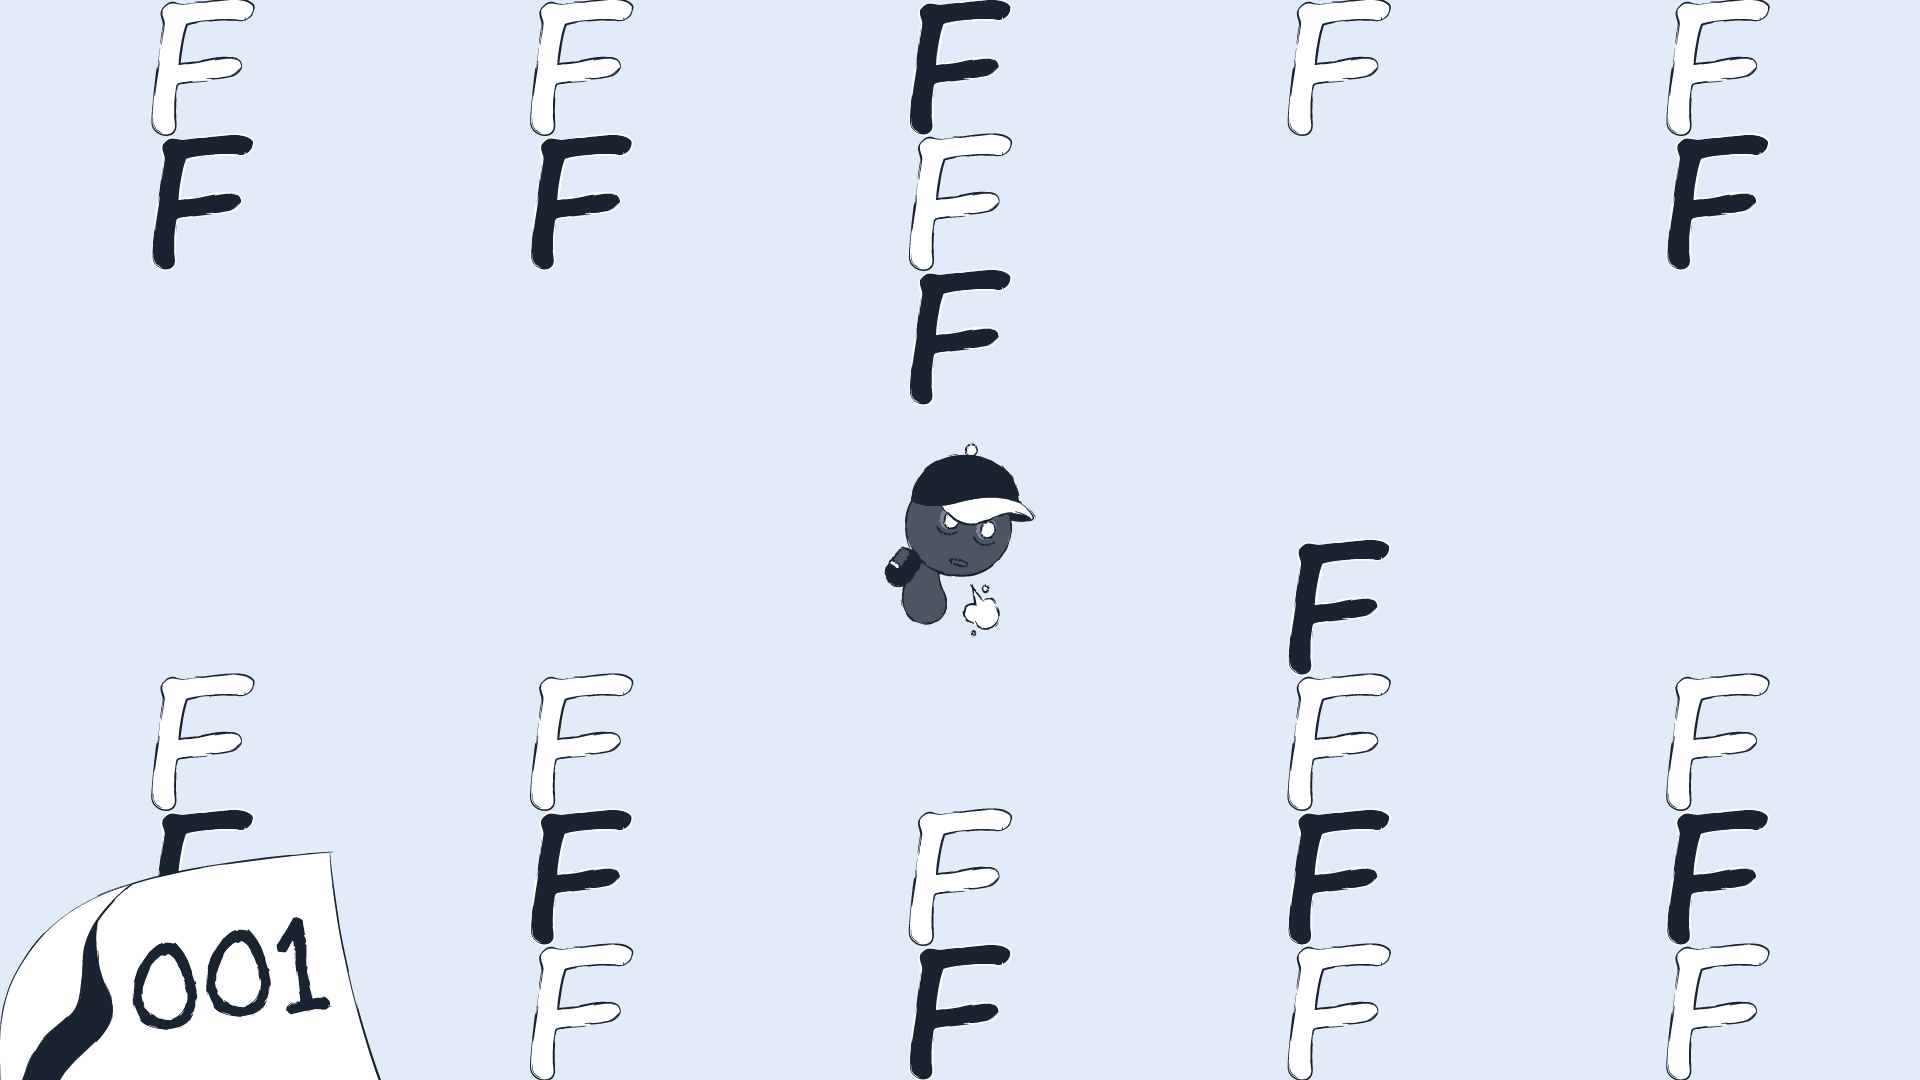
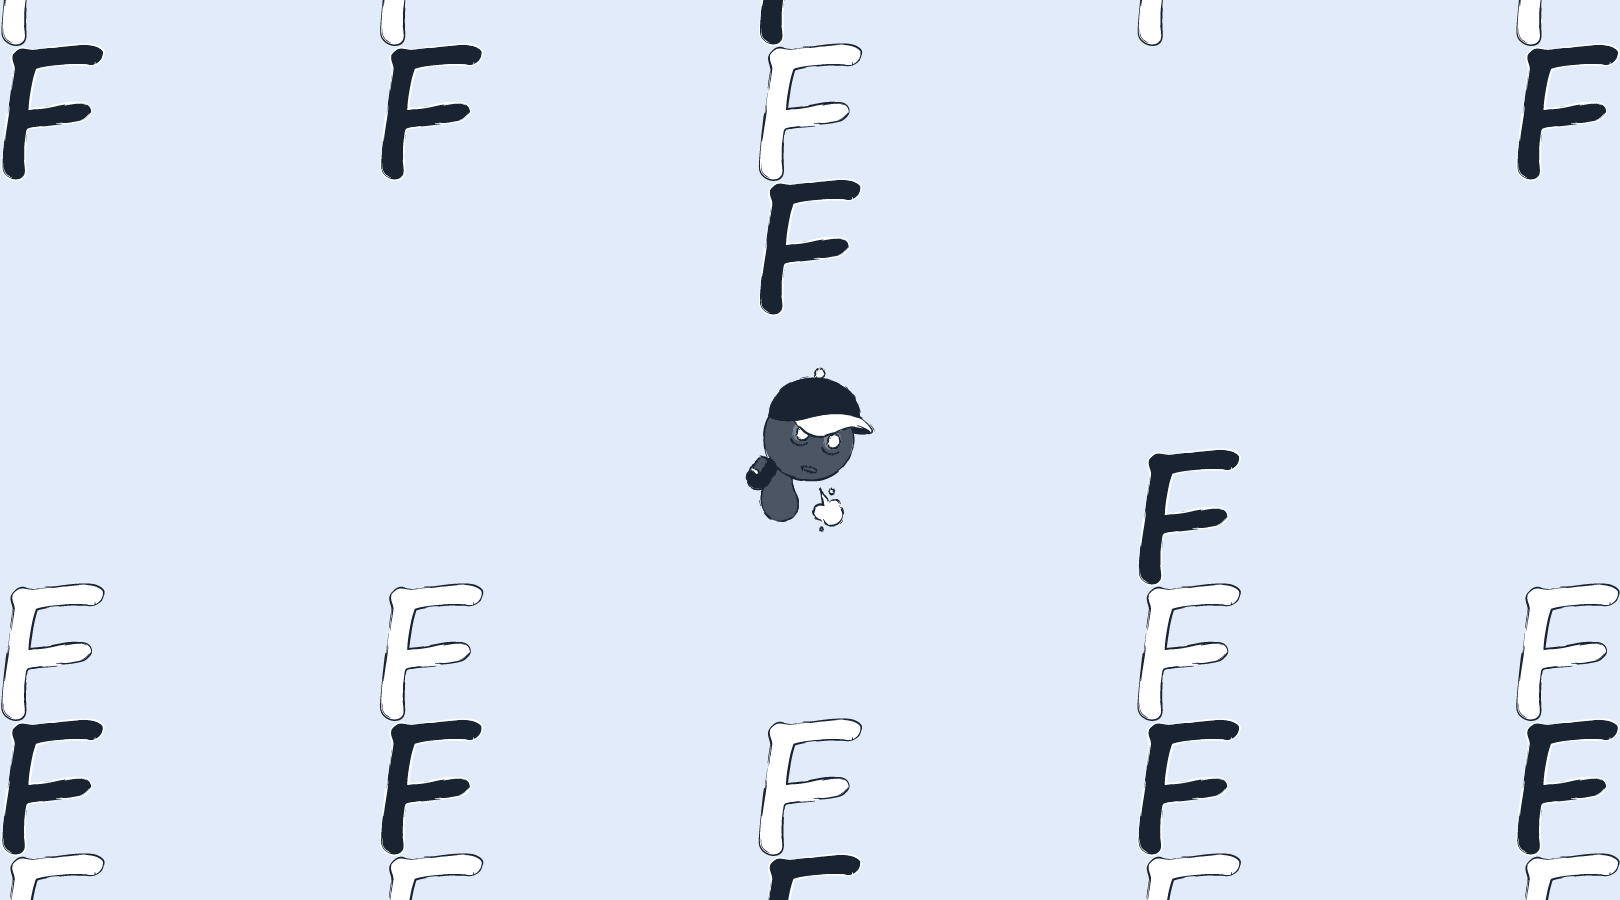
change images

diff --git a/js/mainState.js b/js/mainState.js
@@ -11,9 +11,6 @@ var mainState = {
 
     //preload 함수 이후 실행, 여기서 게임 설정 함
     create: function() {
-        //this.score = 0;
-        game.stage.backgroundColor = '#E1EBFA';
-        game.physics.startSystem(Phaser.Physics.ARCADE); 
         
         this.score = -3;
         
@@ -22,7 +19,7 @@ var mainState = {
         game.stage.backgroundColor = '#E1EBFA';
         game.physics.startSystem(Phaser.Physics.ARCADE); 
         
-        textStyle_Key = { font: "bold 25px sans-serif", fill: "#46c0f9", align: "center" };
+        textStyle_Key = { font: "bold 25px sans-serif", fill: "#161C27", align: "center" };
         textStyle_Value = { font: "bold 25px sans-serif", fill: "#fff", align: "center" };
         
         game.add.text(30, 20, "SCORE", textStyle_Key);
@@ -55,7 +52,7 @@ var mainState = {
 
         if (this.player.y < 0 || this.player.y > 850 || this.score == 2) {
             
-            if (this.score == 30){
+            if (this.score == 2){
                 this.finishGame();
             }
             else {

diff --git a/js/Finish.js b/js/Finish.js
@@ -1,15 +1,15 @@
 var Finish = {
     preload : function() {
         game.load.image('finish_bg', '../images/finish.png');
-        game.load.image('gamestart', '../images/restart.png');
+        //game.load.image('gamestart', '../images/restart.png');
 
     },
     create: function() {
         game.add.sprite(0, 0, 'finish_bg');
-        game.add.button(0, 0, 'gamestart', this.startGame, this);
+        //game.add.button(0, 0, 'gamestart', this.startGame, this);
     },
     
-    startGame: function() {
+    /*startGame: function() {
         game.state.start('main');
-    }
+    }*/
 };

diff --git a/js/Over.js b/js/Over.js
@@ -1,12 +1,12 @@
 var Over = {
     preload : function() {
-        game.load.image('bg', '../images/gameover.jpg');
+        game.load.image('bg', '../images/gameover.png');
         game.load.image('gameover', '../images/restart.png');
 
     },
     create: function() {
         game.add.sprite(0, 0, 'bg');
-        game.add.button(0, 0, 'gameover', this.startGame, this);
+        game.add.button(690, 650, 'gameover', this.startGame, this);
     },
     
     startGame: function() {

diff --git a/js/Start.js b/js/Start.js
@@ -6,7 +6,7 @@ var Start = {
     },
     create: function() {
         game.add.sprite(0, 0, 'start_bg');
-        game.add.button(0, 0, 'gamestart', this.startGame, this);
+        game.add.button(710, 700, 'gamestart', this.startGame, this);
     },
     
     startGame: function() {
